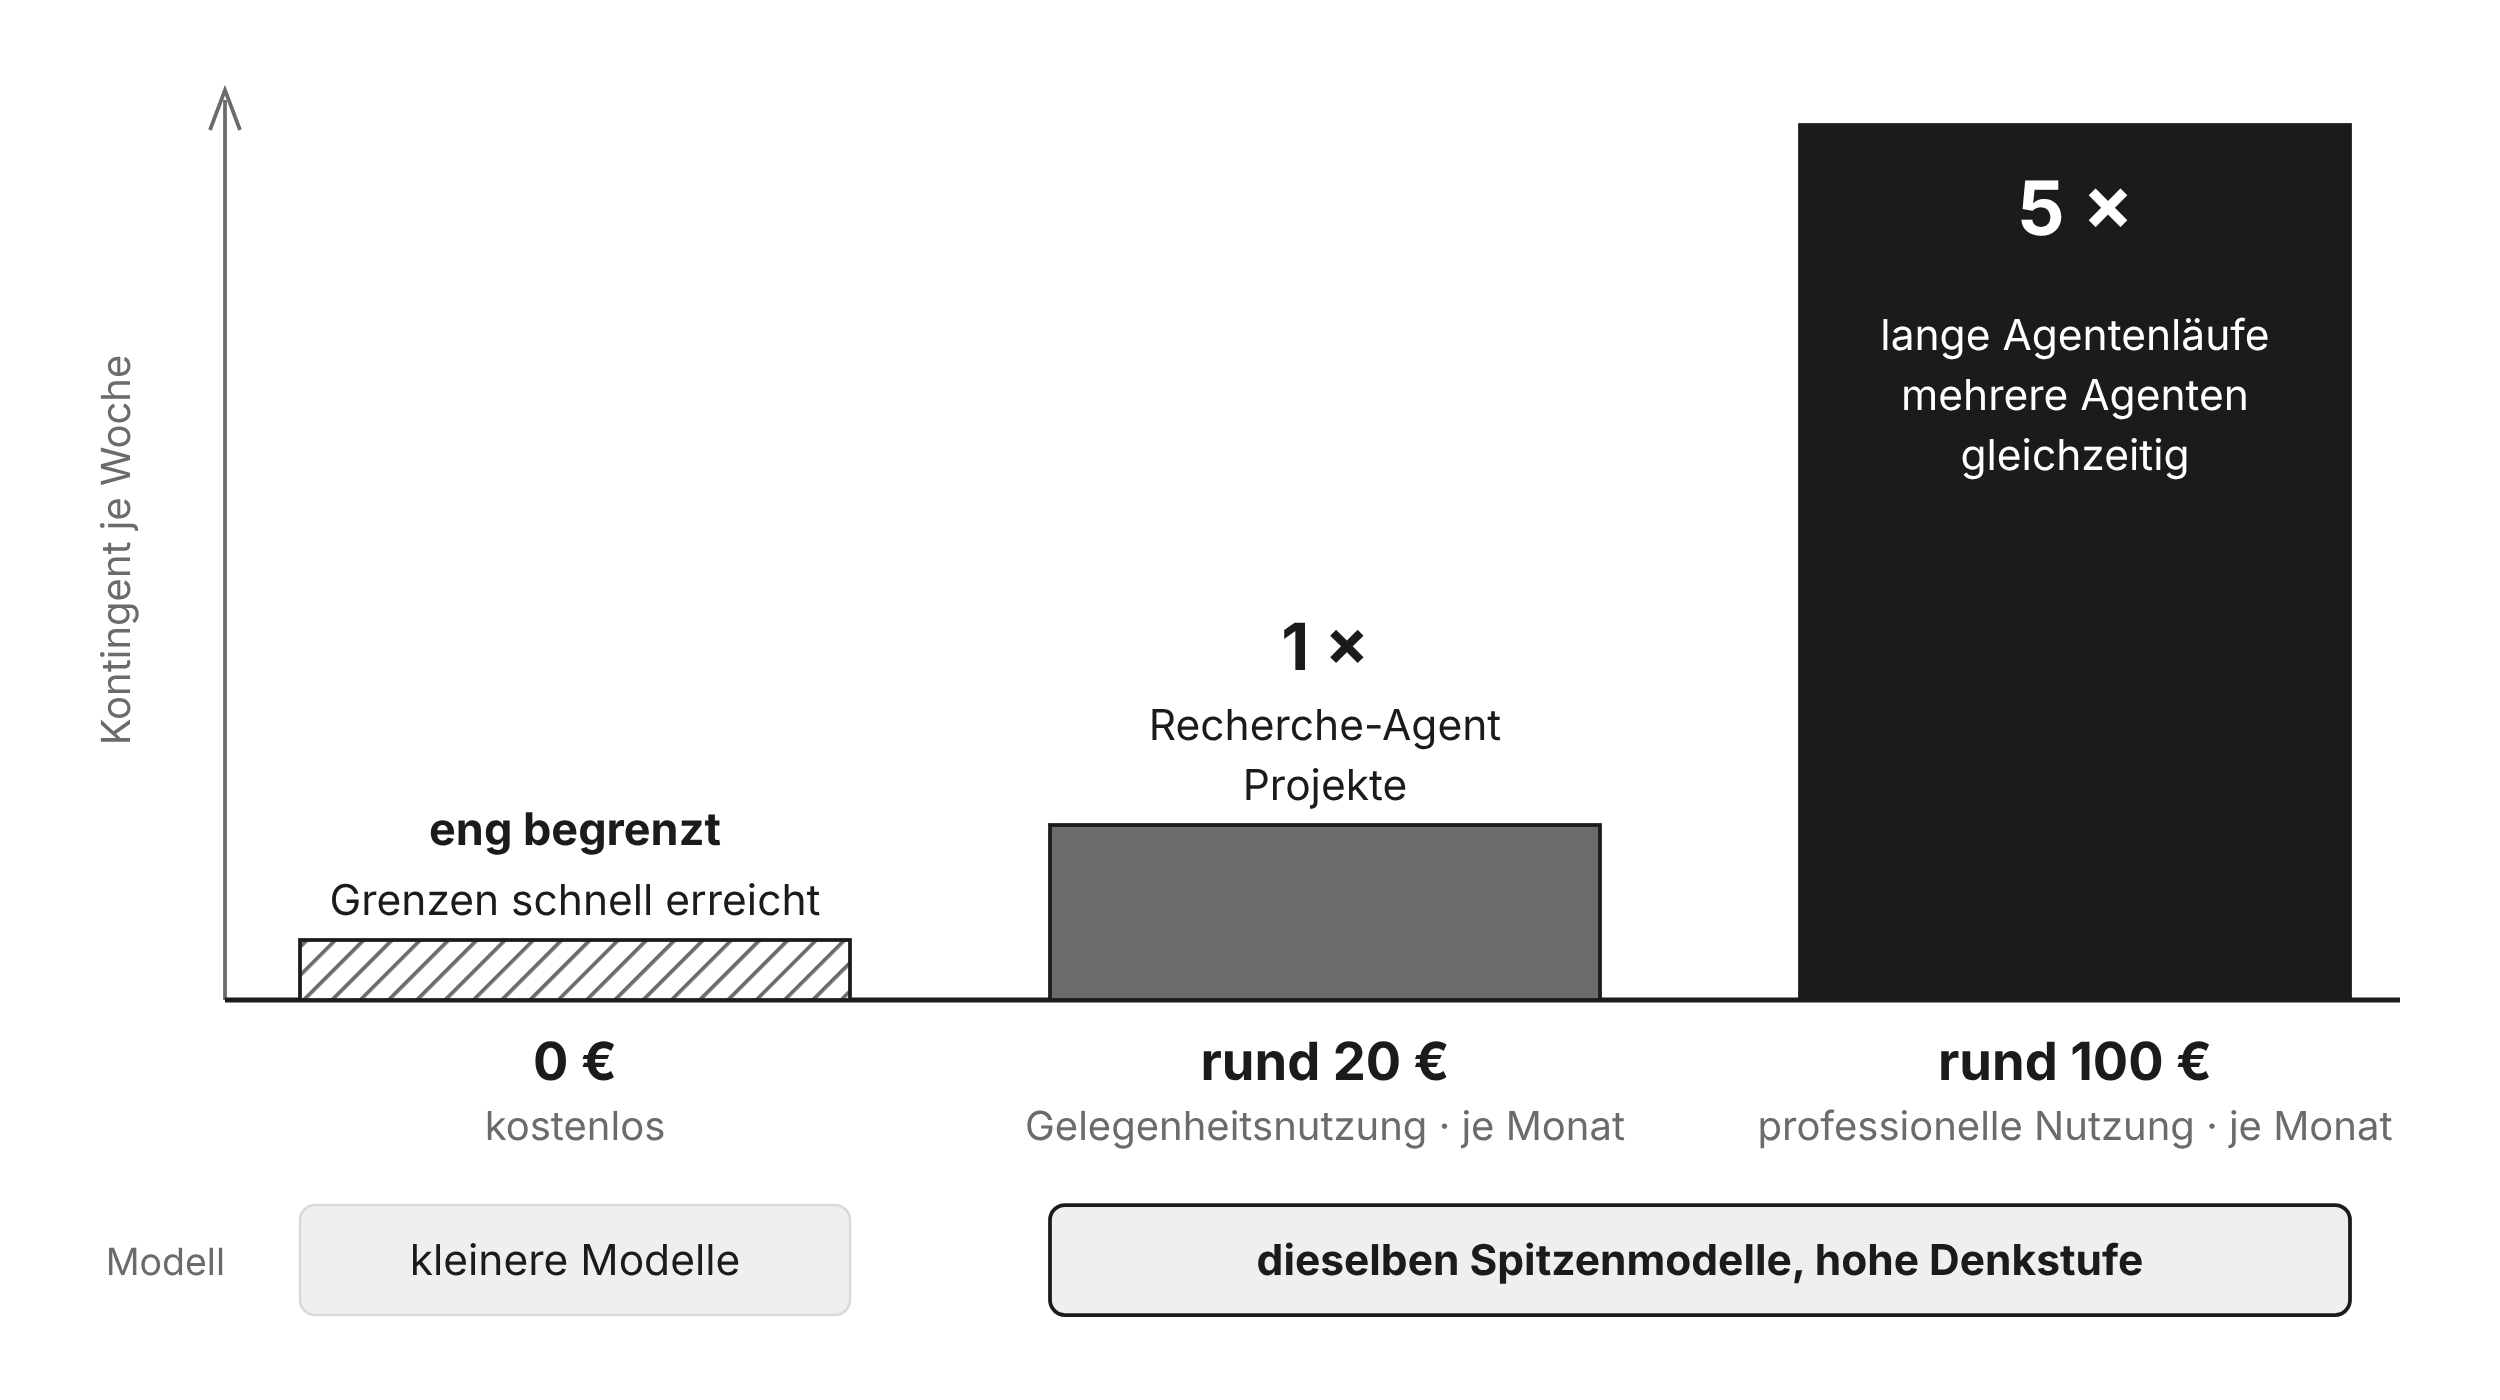
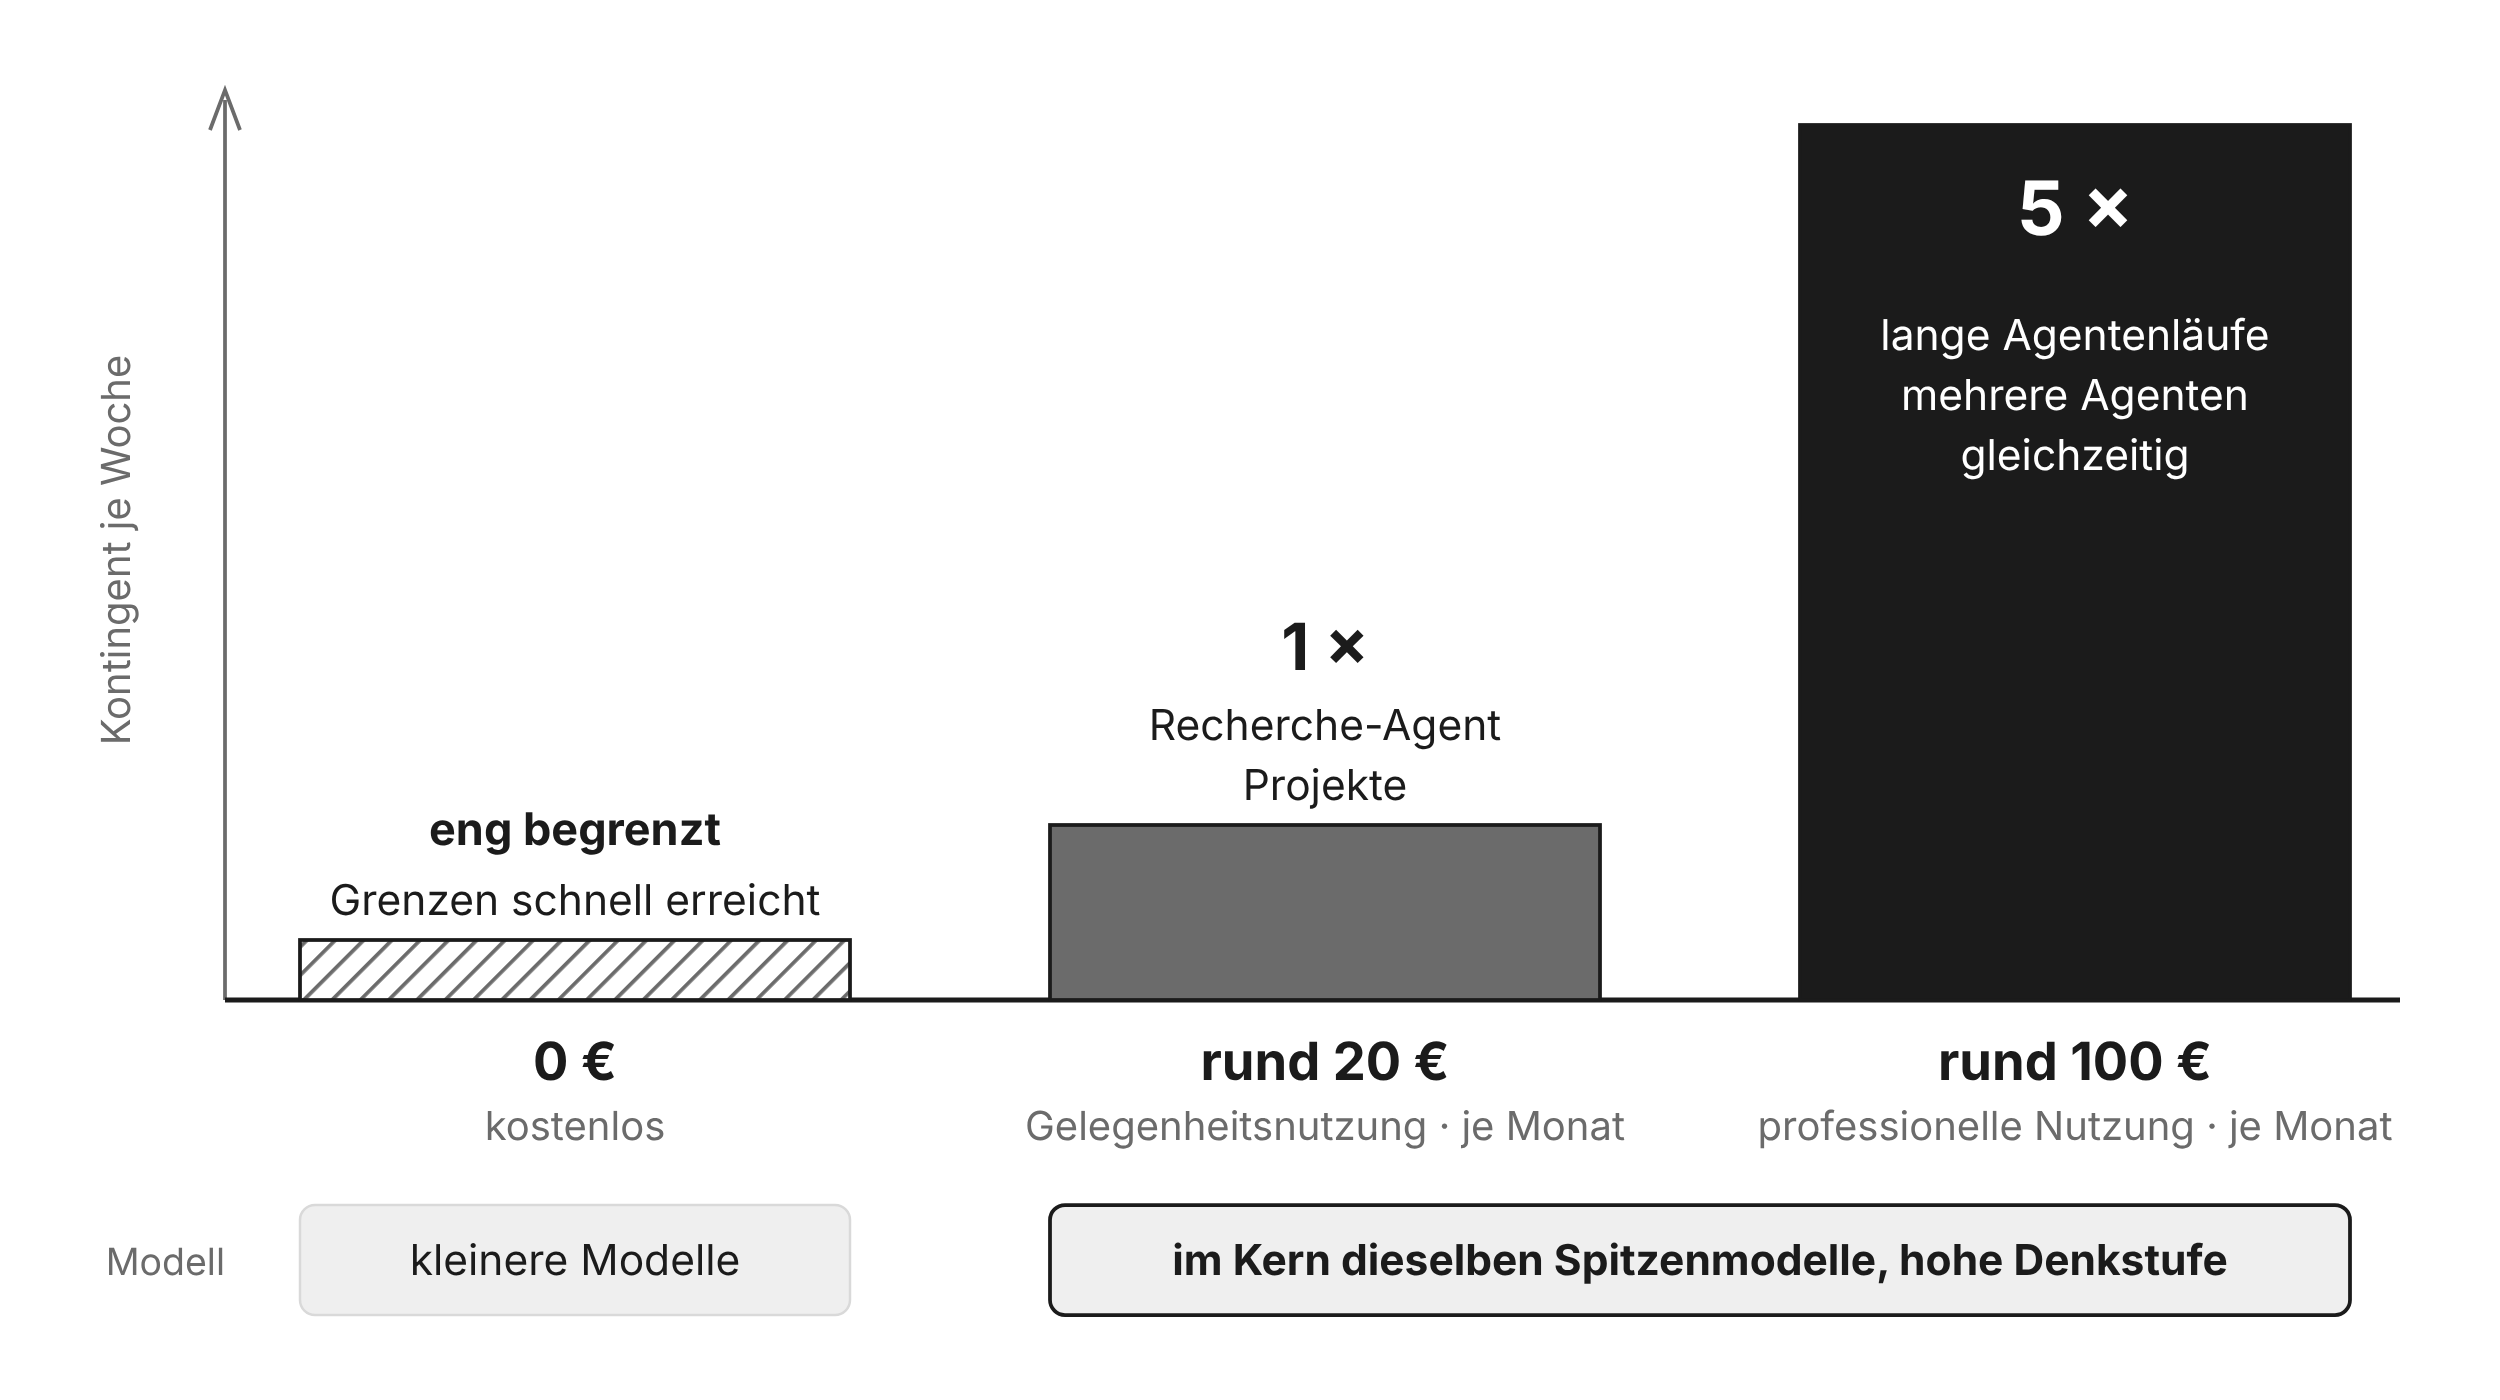
Modellwahl 2.3: Text, Fußnote, datierter Kasten und lebende Modellübersicht
- kapitel02.qmd @sec-model-choice: Modellklassen mit 2x2-Abbildung (@fig-modellklassen,
  Zeitverzug nach Edwards & Emberson 2026, Somala & Emberson 2025); 'Was kauft ein Abo?'
  mit Stufengrafik (@fig-modellwahl-stufen) und Fußnote zu Preisen (Stand 31.10.2026);
  'Welches Sprachmodell…' gestrafft; Entscheidungsbaum (iframe, Druckbild mit QR);
  Abo-Absatz nach den Hochschulzugängen auf die 20-€-Stufe bezogen
- tbl-modellstand und modelluebersicht.qmd: GPT-6/6.1, Gemini 4 Argon, Opus 5.5/Fable 5.1,
  Stufen je Anbieter, offene Modelle zusammengefasst, KI:connect: Auswahl je Hochschule;
  Änderungshistorie und Link auf den Baum
- references.json: mollick2026guide, edwards2026openclosed, somala2025consumergpu,
  openai2026pricing, anthropic2026pricing, google2026abos
- modellwahl-baum.html: Baum ab 480 px sichtbar, geschützte Leerzeichen, Quellenhinweis

Claude-Session: https://claude.ai/code/session_01NiJQCWxayC8FXS6NubjneG

Changed region(s): [[0.468, 0.8907, 0.9048, 0.9214]]

diff --git a/interactions/modellwahl-baum.html b/interactions/modellwahl-baum.html
@@ -30,7 +30,7 @@
   svg text { font-size:15px; fill:var(--c, var(--tinte)); }
   svg text.b, svg tspan.b { font-weight:650; }
   #baumrahmen { overflow-x:auto; }
-  @media (max-width:640px) { #baumrahmen { display:none; } .alles #baumrahmen { display:block; } .alles #buehne { min-width:760px; } }
+  @media (max-width:480px) { #baumrahmen { display:none; } .alles #baumrahmen { display:block; } .alles #buehne { min-width:760px; } }
   svg text.g { font-size:17px; }
   svg .kasten { fill:var(--grund); stroke:var(--c, var(--tinte)); stroke-width:1.5; }
   svg .weiche { fill:var(--flaeche); stroke:var(--c, var(--tinte)); stroke-width:1.5; }
@@ -120,7 +120,7 @@
 
   <details>
     <summary>Wie der Baum entstanden ist</summary>
-    <p>Die Reihenfolge der Fragen folgt Leitfäden, die zuerst nach Risiko und Daten fragen und erst dann nach der Aufgabe. Die Stufen beschreiben, was ein Abo kauft: ab rund 20 € im Monat die Spitzenmodelle der großen Anbieter, für rund 100 € vor allem fünfmal so viel Nutzung für lange Agentenläufe, kaum ein klügeres Modell (Mollick, 2026; Preisseiten von OpenAI, Anthropic und Google, Stand 31.10.2026). Die Blätter sind Empfehlungen dieses Buches, keine Messwerte.</p>
+    <p>Die Reihenfolge der Fragen folgt Leitfäden, die zuerst nach Risiko und Daten fragen und erst dann nach der Aufgabe. Die Stufen beschreiben, was ein Abo kauft: ab rund 20 € im Monat die Spitzenmodelle der großen Anbieter, für rund 100 € vor allem fünfmal so viel Nutzung für lange Agentenläufe (Preisseiten von OpenAI, Anthropic und Google, Stand 31.10.2026). Für den Einstieg empfiehlt auch Mollick (2026) die 20-$-Stufe. Dass bei kommerziellen Modellen über KI:connect.nrw Daten auch in den USA verarbeitet werden können, steht auf der Infoseite der HHU Düsseldorf (2026). Die Blätter sind Empfehlungen dieses Buches, keine Messwerte.</p>
     <p class="klein">Stufen: 0 € = kostenlos · 20 € = Gelegenheitsnutzung · 100 € = professionelle Nutzung (je Monat, gerundet). Für Tutoren, die viele Studierende nutzen, rechnet der <a href="tutor-kosten.html" target="_top">Tutor-Kosten-Rechner</a>.</p>
   </details>
 </main>
@@ -141,7 +141,7 @@
     { a: ["einen Tutor für", "Studierende betreiben"], k: "kein persönliches Abo", m: "", s: null, z: "API oder Hochschulzugang",
       h: "Ein persönliches Abo deckt den Betrieb für viele Studierende nicht ab: Der Tutor läuft über eine Schnittstelle (API) mit Abrechnung nach Verbrauch oder über den Zugang der Hochschule." }
   ];
-  var STUFE = { 0: "0 € (kostenlos)", 20: "rund 20 € im Monat (Gelegenheitsnutzung)", 100: "rund 100 € im Monat (professionelle Nutzung)" };
+  var STUFE = { 0: "0\u00a0€ (kostenlos)", 20: "rund 20\u00a0€ im Monat (Gelegenheitsnutzung)", 100: "rund 100\u00a0€ im Monat (professionelle Nutzung)" };
   var NS = "http://www.w3.org/2000/svg", zeilen = document.getElementById("zeilen");
   function el(tag, attr, txt) { var e = document.createElementNS(NS, tag); for (var k in attr) e.setAttribute(k, attr[k]); if (txt) e.textContent = txt; return e; }
   B.forEach(function (b, i) {

diff --git a/scripts/modellwahl-grafiken.py b/scripts/modellwahl-grafiken.py
@@ -60,7 +60,7 @@ def stufen():
     e.append(f'<rect x="120" y="{y0}" width="220" height="44" rx="6" fill="{FLAECHE}" stroke="{HELL}"/>')
     e.append(text(230, y0 + 28, "kleinere Modelle", 17))
     e.append(f'<rect x="420" y="{y0}" width="520" height="44" rx="6" fill="{FLAECHE}" stroke="{TINTE}" stroke-width="1.5"/>')
-    e.append(text(680, y0 + 28, "dieselben Spitzenmodelle, hohe Denkstufe", 17, 650))
+    e.append(text(680, y0 + 28, "im Kern dieselben Spitzenmodelle, hohe Denkstufe", 17, 650))
     e.append(text(90, y0 + 28, "Modell", 15, 400, GRAU, "end"))
     return svg(W, H, e, "Was ein Abo kauft: drei Stufen, vor allem mehr Kontingent")
 
